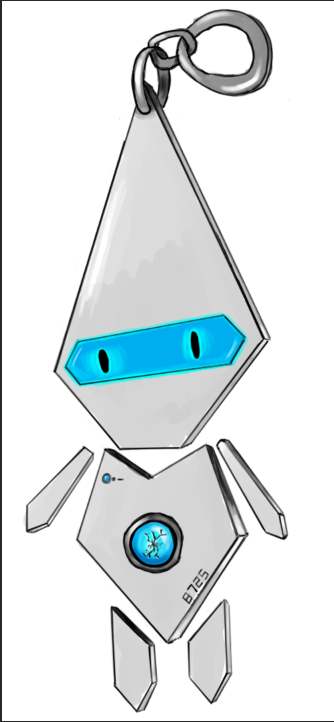
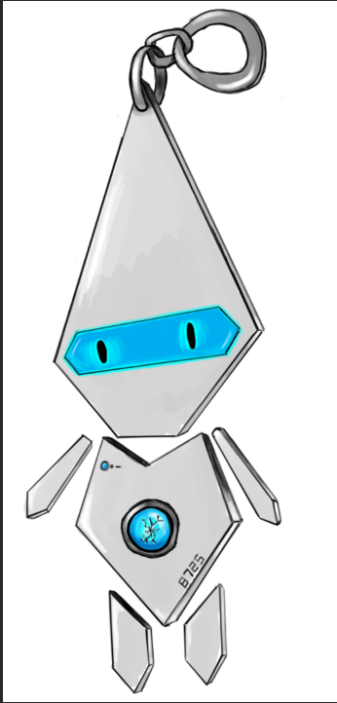
Patch bot profile

Changed region(s): [[0.1198, 0.0, 0.8683, 0.9858], [0.1198, 0.7169, 0.1497, 0.7468], [0.0599, 0.6871, 0.0898, 0.7169]]

diff --git a/AlbaBotDiscord/Core/Commands/Embed.cs b/AlbaBotDiscord/Core/Commands/Embed.cs
@@ -9,7 +9,7 @@ namespace AlbaBotDiscord.Core.Commands
 {
     public class Embed : ModuleBase<SocketCommandContext>
     {
-        [Command("profile"), Summary("embed")]
+        [Command("profile"),Alias("pb"), Summary("embed")]
         public async Task profile()
         {
             EmbedBuilder embed = new EmbedBuilder();
@@ -17,10 +17,13 @@ namespace AlbaBotDiscord.Core.Commands
             embed.WithAuthor("Albab0t#8725", "https://cdn.discordapp.com/app-icons/521715447142416384/b9690f1ac7f3e45309390fe06d415d29.png");
             embed.WithColor(5688530);
             embed.WithTitle("Profil");
-            embed.WithDescription("Description: \n"+ "```Salutation ! je suis Albab0t#8725, je suis né à l'usine d’assemblage de robots, RUEBA. \n"+
+            embed.WithDescription(" ``` Initialisation en cours...```"+
+                "``` launcheurV2.1.bot lancement... ``` \n" +
+                "\n **Description**: \n"+ "Salutation :slight_smile: ! je suis Albab0t#8725, je suis né à l'usine d’assemblage de robots :robot: , RUEBA. \n" +
                 "Robot protocolaire pouvant pirater, se miniaturiser, éclairer et parler plus de 700 langues. \n"+
-                "Je possède cependant une peur du vide inexpliqué et si j'ai l'air aussi joyeux, ce sont mes concepteurs qui m'ont programmé avec cette voix par défaut.```");
-            embed.AddInlineField("Apparence :", ""); 
+                "Je possède cependant une peur du vide inexpliquée et si j'ai l'air aussi joyeux, ce sont mes concepteurs qui m'ont programmé avec cette voix par défaut. \n"+
+                "\n **Apparence :**");
+            embed.WithImageUrl("https://github.com/Ewillian/AlbaDisc0rdBot/blob/master/AlbaBotDiscord/Image/Apparence.png?raw=true");
             await Context.Channel.SendMessageAsync("", false, embed.Build());
             }
     }

diff --git a/AlbaBotDiscord/Core/Commands/Help.cs b/AlbaBotDiscord/Core/Commands/Help.cs
@@ -18,6 +18,7 @@ namespace AlbaBotDiscord.Core.Commands
             comList.Add("?!Help ou ?!h || Affiche la liste des commandes.");
             comList.Add("?!Hello ou ?!ht || Dit bonjour.");
             comList.Add("?!BF ou ?!bf || Notifie joueurs de Battlefiel V.");
+            comList.Add("?!profile ou ?!pb || Description.");
             await Context.Channel.SendMessageAsync("Liste des commandes :");
             foreach (String coms in comList)
             {
